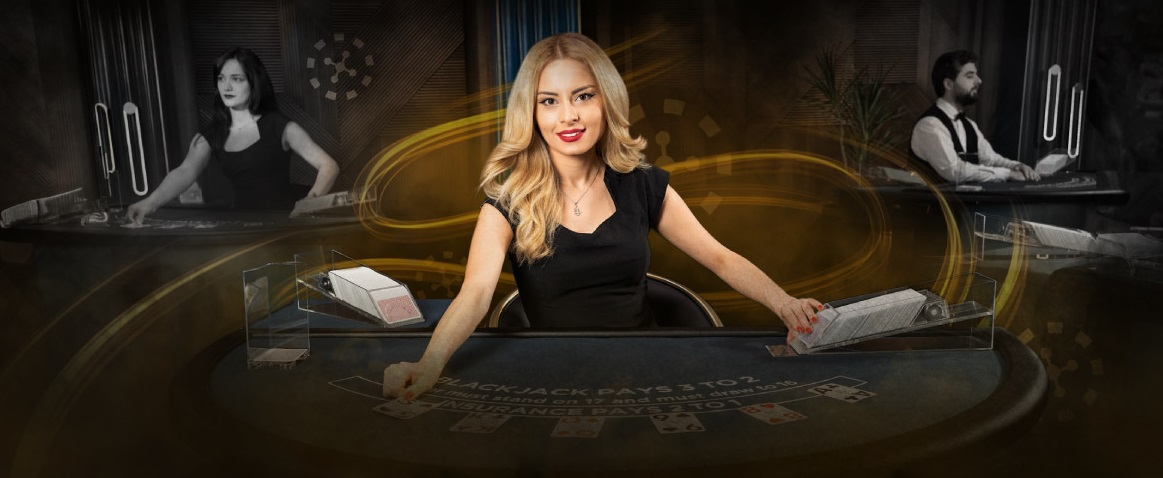
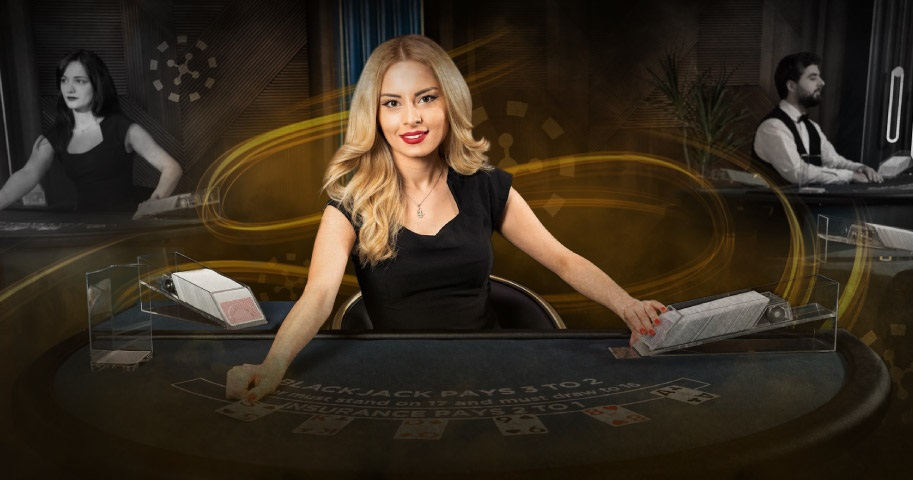
превью

diff --git a/index.html b/index.html
@@ -26,7 +26,7 @@
 
 <!-- Open Graph мета-теги для соцсетей -->
 <meta property="og:image" content="https://maksymchukhrai.github.io/CasinoExtra/img/1830_cs_welcomeb__hp_1163х478.jpg">
-<meta property="og:image:width" content="1163">
+<meta property="og:image:width" content="913">
 <meta property="og:image:height" content="478">
 <meta property="og:title" content="Casino Extra - Le casino en ligne avec les meilleurs bonus">
 <meta property="og:description" content="CasinoExtra - Meilleurs bonus de casino en ligne. Licencié par Curacao eGaming. Jeux sécurisés et fiables.">
@@ -40,7 +40,7 @@
 <meta property="og:title" content="Casino Extra - Le casino en ligne avec les meilleurs bonus">
 <meta property="og:description" content="CasinoExtra - Meilleurs bonus de casino en ligne. Licencié par Curacao eGaming. Jeux sécurisés et fiables.">
 <meta property="og:image" content="https://maksymchukhrai.github.io/CasinoExtra/img/1830_cs_welcomeb__hp_1163х478.jpg">
-<meta property="og:image:width" content="1163">
+<meta property="og:image:width" content="913">
 <meta property="og:image:height" content="478">
 <meta property="og:type" content="website">
 <meta property="og:url" content="https://maksymchukhrai.github.io/CasinoExtra/">
